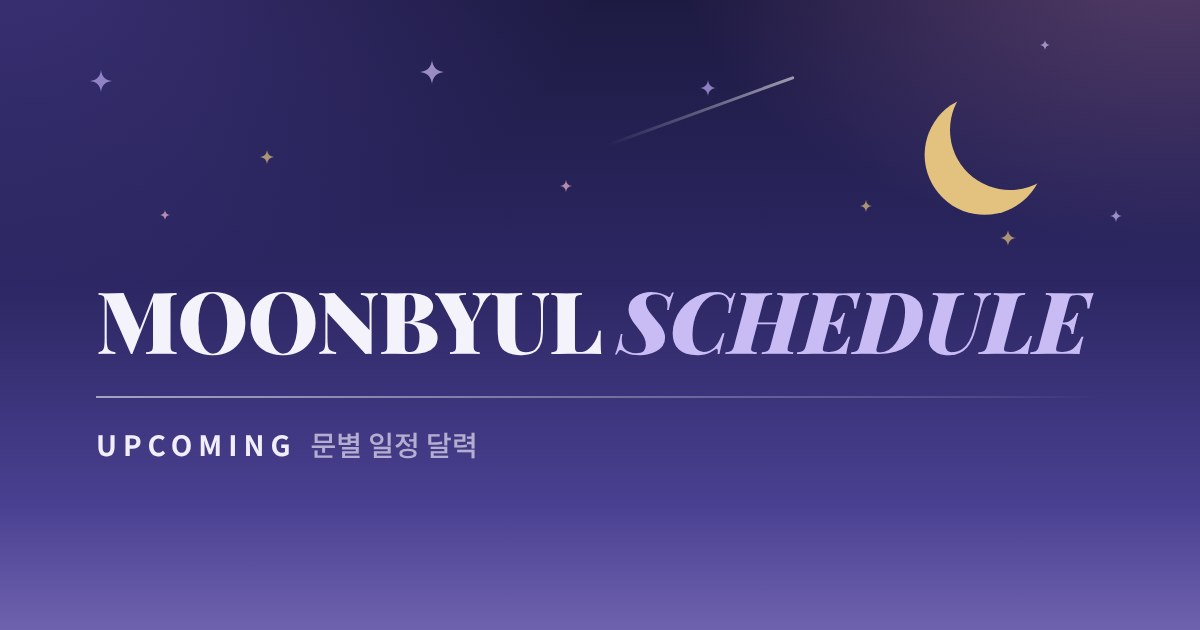
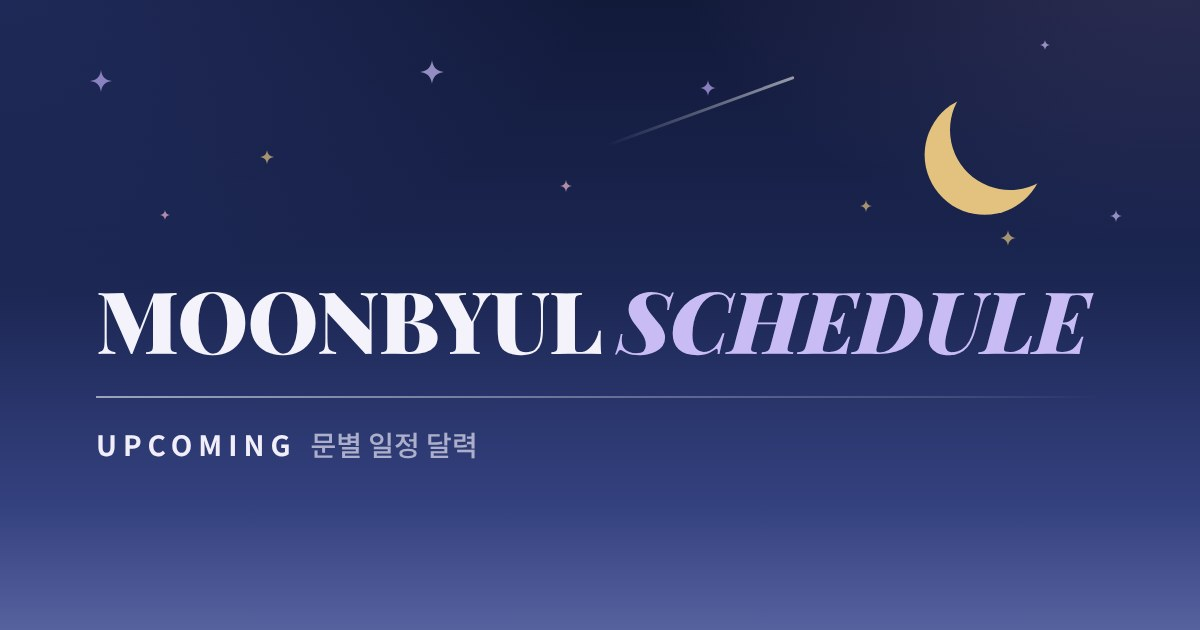
test: 헤더 배경을 보랏빛에서 푸른 남색 쪽으로
- 하늘: #1D1A42 · #2C2763 · #4A4091 → #121A3A · #1B2652 · #34417F
- 분홍 · 보라 오로라는 더 옅게
- 같은 남색으로: 위에 붙는 줄 · 강조색(#1E2A5A) · 상태바(#121A3A) · 링크 미리보기

Claude-Session: https://claude.ai/code/session_01CkGCNXrXwnVCr8nUGfnZx9

diff --git a/test.html b/test.html
@@ -19,7 +19,7 @@
 <meta name="twitter:card" content="summary_large_image">
 <!-- 홈 화면에 추가하면 앱처럼 (주소창 없이) 열리게 -->
 <link rel="manifest" href="test.webmanifest">
-<meta name="theme-color" content="#1D1A42">
+<meta name="theme-color" content="#121A3A">
 <link rel="icon" href="icons/test/icon-192.png" type="image/png">
 <link rel="apple-touch-icon" href="icons/test/apple-touch-icon.png">
 <meta name="mobile-web-app-capable" content="yes">
@@ -4470,14 +4470,14 @@ html body #searchBtn .tab-ic { width: 15px; height: 15px; }
 #skyDecor {
   height: 330px;
   background:
-    radial-gradient(ellipse 70% 70% at 96% -10%, rgba(214, 140, 190, .30), transparent 70%),
-    radial-gradient(ellipse 85% 80% at 0% -10%, rgba(110, 90, 210, .35), transparent 72%),
+    radial-gradient(ellipse 70% 70% at 96% -10%, rgba(190, 150, 210, .16), transparent 70%),
+    radial-gradient(ellipse 85% 80% at 0% -10%, rgba(80, 100, 200, .22), transparent 72%),
     linear-gradient(180deg,
-      #1D1A42 0%,
-      #2C2763 26%,
-      #4A4091 44%,
-      #9D92CF 60%,
-      #DCD6EF 74%,
+      #121A3A 0%,
+      #1B2652 26%,
+      #34417F 44%,
+      #8F98C9 60%,
+      #D8DCEE 74%,
       rgba(255, 255, 255, 0) 100%);
 }
 /* 별 · 달 · 별똥별: 은은하게 */
@@ -4539,11 +4539,11 @@ html body #navControls .nav-actions { justify-self: end; }
    - 강조색: 먹색 → 헤더의 깊은 남색
    - 스크롤해서 위에 붙는 달 이동 줄: 남색 바탕 + 흰 글씨
 ========================================================= */
-:root { --navy: #262058; }
+:root { --navy: #1E2A5A; }
 html body #todayBtn,
 html body #listAddBtn,
 html body #tfDone { background: var(--navy); }
-html body #listAddBtn { box-shadow: 0 6px 16px rgba(38, 32, 88, .3); }
+html body #listAddBtn { box-shadow: 0 6px 16px rgba(30, 42, 90, .3); }
 html body #calendar .day.today .day-number,
 html body .mini-day.today .mini-num,
 html body .list-day-head .today-badge,
@@ -4553,8 +4553,8 @@ html body .mp-month.on { background: var(--navy); border-color: var(--navy); }
 html body .day.selected::after { border-color: var(--navy); }
 
 html body #navControls.stuck {
-  background: #1D1A42;
-  box-shadow: 0 4px 14px rgba(20, 16, 50, .25);
+  background: #121A3A;
+  box-shadow: 0 4px 14px rgba(14, 20, 50, .25);
 }
 html body #navControls.stuck #monthText { color: #F4F2FA; }
 html body #navControls.stuck #prevBtn,
